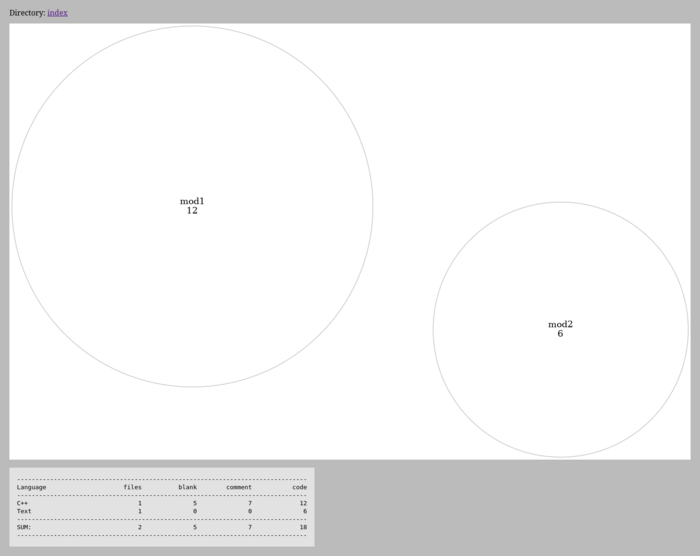
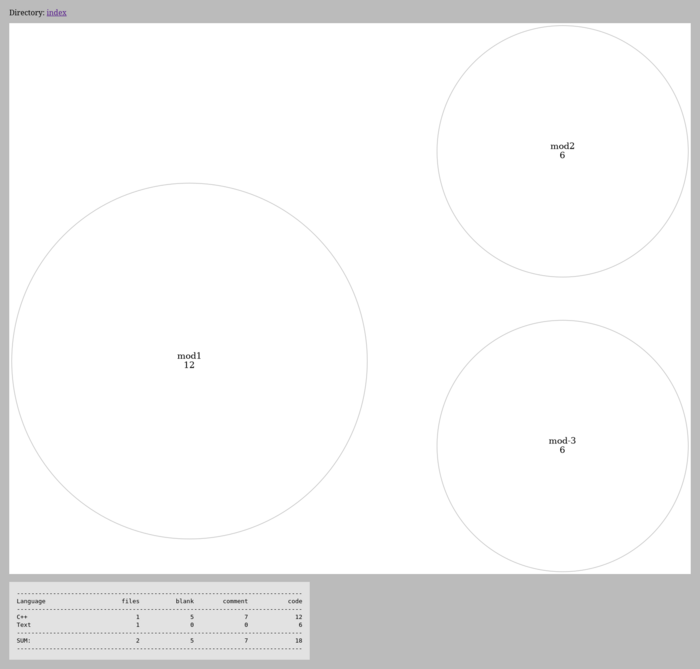
Fix navigation bar links

diff --git a/examples/simple/cloc_tree/graphs/index_mod_3.html b/examples/simple/cloc_tree/graphs/index_mod_3.html
@@ -33,27 +33,16 @@ Project is distributed under the BSD 3-Clause license.
     </style>
 </head>
 <body>
-    <div class="section">Directory:  <a href="index.html">index</a> </div>
+    <div class="section">Directory:  <a href="index.html">index</a> / <a href="index_mod_3.html">mod-3</a> </div>
     <div class="graphsection section">
-        <img src="index.png" alt="graph" usemap="#index">
-<map id="index" name="index">
-<area shape="circle" id="node1" href="index_mod1.html" title="node: mod1
-12" alt="" coords="389,729,384"/>
-<area shape="circle" id="node2" href="index_mod_3.html" title="node: mod&#45;3
-6" alt="" coords="1195,913,272"/>
-<area shape="circle" id="node3" href="index_mod2.html" title="node: mod2
-6" alt="" coords="1195,277,272"/>
-</map>
-
-
+no subdirs with results
     </div>
     <pre class="clocsection section">-------------------------------------------------------------------------------
 Language                     files          blank        comment           code
 -------------------------------------------------------------------------------
-C++                              1              5              7             12
 Text                             1              0              0              6
 -------------------------------------------------------------------------------
-SUM:                             2              5              7             18
+SUM:                             1              0              0              6
 -------------------------------------------------------------------------------</pre>
 </body>
 </html>

diff --git a/src/clocdirtree/main.py b/src/clocdirtree/main.py
@@ -157,6 +157,7 @@ def generate_page_content(directory, path_prefix, cloc_summary, out_graph_dir):
     for index in range(0, dir_items_len):
         dir_item = dir_items[index]
         item_file = "_".join(dir_items[: index + 1]) + ".html"
+        item_file = prepare_filesystem_name(item_file)
         path_links_content += f""" <a href="{item_file}">{dir_item}</a> /"""
     if path_links_content:
         path_links_content = path_links_content[:-1]
